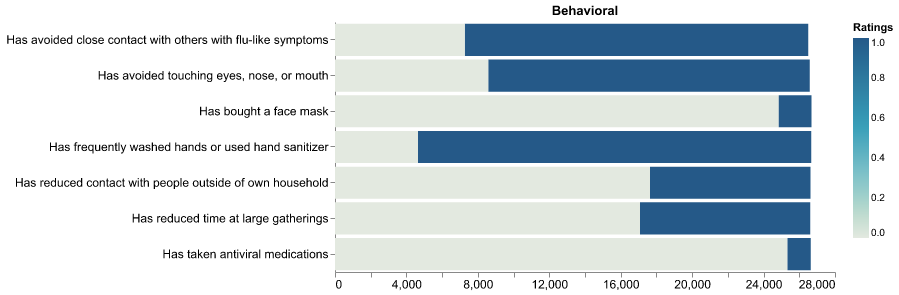
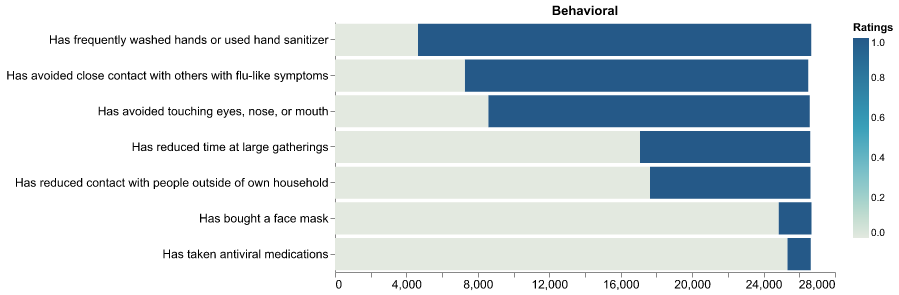
Cleaned the chart for receiving vaccines.

diff --git a/01 Driven Data - Flu Shot/src/flu_shot_data.py b/01 Driven Data - Flu Shot/src/flu_shot_data.py
@@ -1,5 +1,6 @@
 from pyexpat import features
 
+import numpy as np
 import pandas as pd
 import os
 import altair as alt
@@ -111,11 +112,23 @@ class FluShotData:
 
 
         # 2. Behavioral features Y/N
-        # What to do with behavioral missing?
+        # Create a new feature (str) with Y for 1, N for 0 and 'dont know' for NaN
         features_behavioral = ['behavioral_antiviral_meds', 'behavioral_avoidance',
                                'behavioral_face_mask', 'behavioral_wash_hands',
                                'behavioral_large_gatherings', 'behavioral_outside_home',
                                'behavioral_touch_face']
+
+        def float_to_word(w):
+            if w == 0.0:
+                return 'No'
+            elif w == 1.0:
+                return 'Yes'
+            else:
+                return 'No response'
+
+        features_behavioral_desc = [f'{f}_desc' for f in features_behavioral]
+        df_train['behavioral_antiviral_meds_desc'] = df_train['behavioral_antiviral_meds'].apply(float_to_word)
+        print(df_train['behavioral_antiviral_meds_desc'])
 
         for f in features_behavioral:
             print(df_train[f].value_counts())
@@ -202,10 +215,19 @@ class FluShotData:
         # Chart for behavioural
         bars_behavioural = alt.Chart(source_behavioral, title='Behavioral').mark_bar().encode(
             x=alt.X('counts:Q').title(''),
-            y=alt.Y('feature:N', axis=alt.Axis(labelLimit=380)).title(''),
+            y=alt.Y(
+                'feature:N', axis=alt.Axis(labelLimit=380),
+                sort=['Has frequently washed hands or used hand sanitizer',
+                      'Has avoided close contact with others with flu-like symptoms',
+                      'Has avoided touching eyes, nose, or mouth',
+                      'Has reduced time at large gatherings',
+                      'Has reduced contact with people outside of own household',
+                      'Has bought a face mask',
+                      'Has taken antiviral medications']
+                    ).title(''),
             color=alt.Color('value',
                             legend=alt.Legend(title="Ratings"),
-                            scale=alt.Scale(scheme='lighttealblue')
+                            scale=alt.Scale(scheme='lighttealblue'),
                             )
         ).configure_axis(
             labelFontSize=12,
